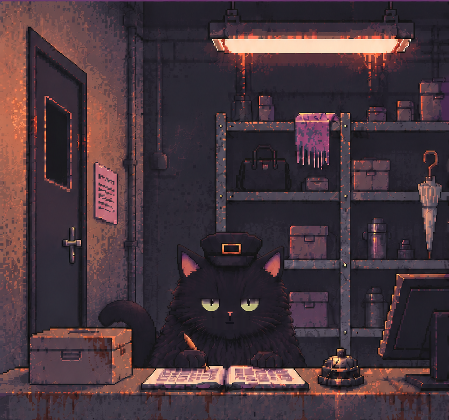
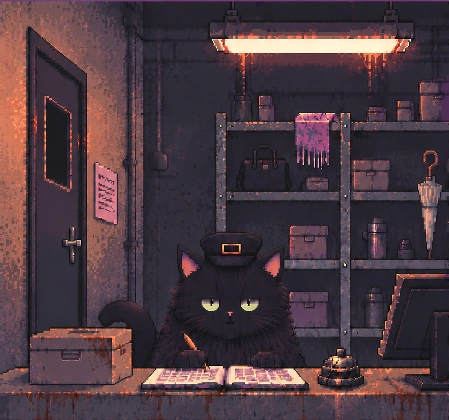
Add files via upload

diff --git a/index.html b/index.html
@@ -37,6 +37,9 @@ body{background:#1c1c26;color:#292633}
 
 /* Home heading: centered, smaller and lighter */
 #home .panel h2{font-size:14px;font-weight:500;line-height:1.6;letter-spacing:-.045em;text-align:center;word-break:keep-all;margin:4px 0 14px;}
+
+/* Delete only the selected saved record */
+.records .record-delete{display:block;margin:10px 0 0 auto;padding:5px 12px;background:#d1b4a5;border:2px solid #292734;color:#292734;font:12px monospace;cursor:pointer}
 </style></head><body><main class="app"><header class="top">✦ ༺ 마음 조각 분실물 센터 ༻ ✦<button id="sound" class="sound">♪</button></header>
 <section id="home"><div class="scene"></div><div class="panel"><h2>카드를 뒤집어 소유자를 확인하시겠어요?</h2><textarea id="question" rows="3" placeholder="질문은 적어도 되고, 비워도 괜찮아요."></textarea><div id="deck" class="deck">☾</div><button id="draw" class="btn">카드 열기</button></div></section>
 <section id="result" class="hidden"><div class="panel"><div class="deck cardface" id="face"><img id="cardimg" alt="뽑은 타로 카드"></div><h2 id="ct" class="cardtitle"></h2><div id="or" class="orient"></div><p id="meaning"></p><hr><p><b>이 카드를 보고 어떤 생각이 들었나요?</b></p><textarea id="reflection" rows="8" placeholder="마음에 떠오른 걸 자유롭게 적어주세요."></textarea><button id="save" class="btn">마음 찾아가기</button><button id="again" class="btn">한 장 더 뽑기</button></div></section>
@@ -82,7 +85,8 @@ function show(id){['home','result','records'].forEach(x=>$('#'+x).classList.togg
 $('#draw').onclick=()=>{if(!cards.length)return;let pool=cards.filter(x=>!recentDraws.includes(x.en));if(!pool.length){recentDraws=[];pool=cards}let c=pool[Math.floor(Math.random()*pool.length)],rev=Math.random()<.5;recentDraws.push(c.en);if(recentDraws.length>8)recentDraws.shift();current={...c,rev,q:$('#question').value.trim()};$('#ct').textContent=c.en+' · '+c.ko;$('#or').textContent=rev?'역방향 REVERSED':'정방향 UPRIGHT';$('#meaning').textContent=(rev?c.r:c.u);const code=cardCode(c.en);const img=$('#cardimg');img.style.display='block';img.alt='';img.classList.toggle('reversed',rev);let sources=['https://raw.githubusercontent.com/sixseeds/tarot-api/main/cards/'+code+'.jpg','https://cdn.jsdelivr.net/gh/sixseeds/tarot-api@main/cards/'+code+'.jpg','https://petaloverflow.github.io/tarot-api/cards/'+code+'.jpg'];let si=0;img.onerror=()=>{si++;if(si<sources.length){img.src=sources[si]}else{img.onerror=null;img.style.display='none'}};img.src=sources[0];$('#face').style.transform='none';$('#reflection').value='';show('result')};
 $('#save').onclick=()=>{if(!current)return;let arr=JSON.parse(localStorage.getItem('boriRecords')||'[]');arr.unshift({...current,text:$('#reflection').value,at:new Date().toISOString()});localStorage.setItem('boriRecords',JSON.stringify(arr));let p=document.createElement('div');p.className='popup';p.innerHTML='<div class="popbox"><b class="handover-title">해당 마음의 소유자가 확인되었습니다.</b><p class="handover-subtitle">정상적으로 인계합니다.</p><svg class="paw-stamp" viewBox="0 0 72 72" aria-label="낡은 붉은 고양이 발자국 도장" role="img" xmlns="http://www.w3.org/2000/svg"><defs><mask id="worn-paw"><rect width="72" height="72" fill="white"/><path d="M15 21l3 2-1 3-4-1zm42 28 3-2 1 4-3 2zM30 8l3 2-1 4-3-1zM47 59l4-2 1 2-3 3zM18 48l4-2 1 2-3 3zM38 34l2 1-1 2-2-1zM33 49l3-1 1 2-3 1zM49 26l2-2 2 2-2 2z" fill="black"/><path d="M11 38h5m40-2h4M25 61l4-1" stroke="black" stroke-width="2"/></mask></defs><g fill="none" stroke="#9f3435" stroke-width="2.9" stroke-linecap="round" mask="url(#worn-paw)"><path d="M57 18C47 7 27 7 17 17 6 28 7 47 19 57c10 9 28 8 39-3 10-10 10-26 2-36"/></g><g fill="#a33839" mask="url(#worn-paw)"><ellipse cx="22" cy="30" rx="5" ry="7" transform="rotate(-25 22 30)"/><ellipse cx="32" cy="23" rx="4.6" ry="6.5" transform="rotate(-8 32 23)"/><ellipse cx="44" cy="24" rx="4.6" ry="6.5" transform="rotate(12 44 24)"/><ellipse cx="53" cy="33" rx="4.6" ry="6.4" transform="rotate(29 53 33)"/><path d="M28 40c2-4 4-6 8-6s7 3 9 7c2 3 7 6 6 11-1 5-6 6-10 4-3-1-7-1-10 0-5 2-10-1-10-6 0-4 5-7 7-10z"/></g></svg><button class="btn">확인</button></div>';document.body.append(p);p.querySelector('button').onclick=()=>{p.remove();show('home')}};
 $('#again').onclick=()=>show('home');$('#homeNav').onclick=()=>show('home');$('#recordsNav').onclick=()=>show('records');
-function render(){let a=JSON.parse(localStorage.getItem('boriRecords')||'[]'),l=$('#list');if(!a.length){l.innerHTML='<div class="empty">아직 보관된 마음이 없어요.</div>';return}l.innerHTML=a.map(x=>`<div class="item"><b>${new Date(x.at).toLocaleString('ko-KR')}</b><br>${x.en} · ${x.ko} / ${x.rev?'역방향':'정방향'}${x.q?`<p>Q. ${esc(x.q)}</p>`:''}<p>${esc(x.text||'')}</p></div>`).join('')}
+function render(){let a=JSON.parse(localStorage.getItem('boriRecords')||'[]'),l=$('#list');if(!a.length){l.innerHTML='<div class="empty">아직 보관된 마음이 없어요.</div>';return}l.innerHTML=a.map((x,i)=>`<div class="item"><b>${new Date(x.at).toLocaleString('ko-KR')}</b><br>${x.en} · ${x.ko} / ${x.rev?'역방향':'정방향'}${x.q?`<p>Q. ${esc(x.q)}</p>`:''}<p>${esc(x.text||'')}</p><button type="button" class="record-delete" data-index="${i}">삭제</button></div>`).join('')}
+$('#list').addEventListener('click',e=>{const btn=e.target.closest('.record-delete');if(!btn)return;const index=Number(btn.dataset.index);if(!Number.isInteger(index)||!confirm('이 마음 기록을 삭제하시겠어요?'))return;const records=JSON.parse(localStorage.getItem('boriRecords')||'[]');if(index<0||index>=records.length)return;records.splice(index,1);localStorage.setItem('boriRecords',JSON.stringify(records));render()});
 function esc(s){return s.replace(/[&<>"']/g,c=>({'&':'&amp;','<':'&lt;','>':'&gt;','"':'&quot;',"'":'&#39;'}[c]))}
 $('#export').onclick=()=>{let data=localStorage.getItem('boriRecords')||'[]',blob=new Blob([data],{type:'application/json'}),a=document.createElement('a');a.href=URL.createObjectURL(blob);a.download='보리의마음상점_백업.json';a.click();URL.revokeObjectURL(a.href)};$('#importBtn').onclick=()=>$('#importFile').click();$('#importFile').onchange=async e=>{try{let t=await e.target.files[0].text(),j=JSON.parse(t);if(!Array.isArray(j))throw 0;localStorage.setItem('boriRecords',JSON.stringify(j));render();alert('기록을 불러왔어요.')}catch{alert('올바른 백업 파일이 아니에요.')}};
 </script></body></html>

diff --git a/sw.js b/sw.js
@@ -1,4 +1,4 @@
-const C='mind-fragment-v20261014-mouth-pixel-4';
+const C='mind-fragment-v20261014-delete-bright10-5';
 const ASSETS=['./','./index.html','./cards.json','./bgm.wav','./rail-ambience.wav','./click.wav','./icon-192.png','./icon-512.png','./kami-lost-found.webp','./manifest.webmanifest'];
 self.addEventListener('install',event=>{event.waitUntil(caches.open(C).then(cache=>cache.addAll(ASSETS)).then(()=>self.skipWaiting()));});
 self.addEventListener('activate',event=>{event.waitUntil(Promise.all([caches.keys().then(keys=>Promise.all(keys.filter(key=>key!==C).map(key=>caches.delete(key)))),self.clients.claim()]));});
